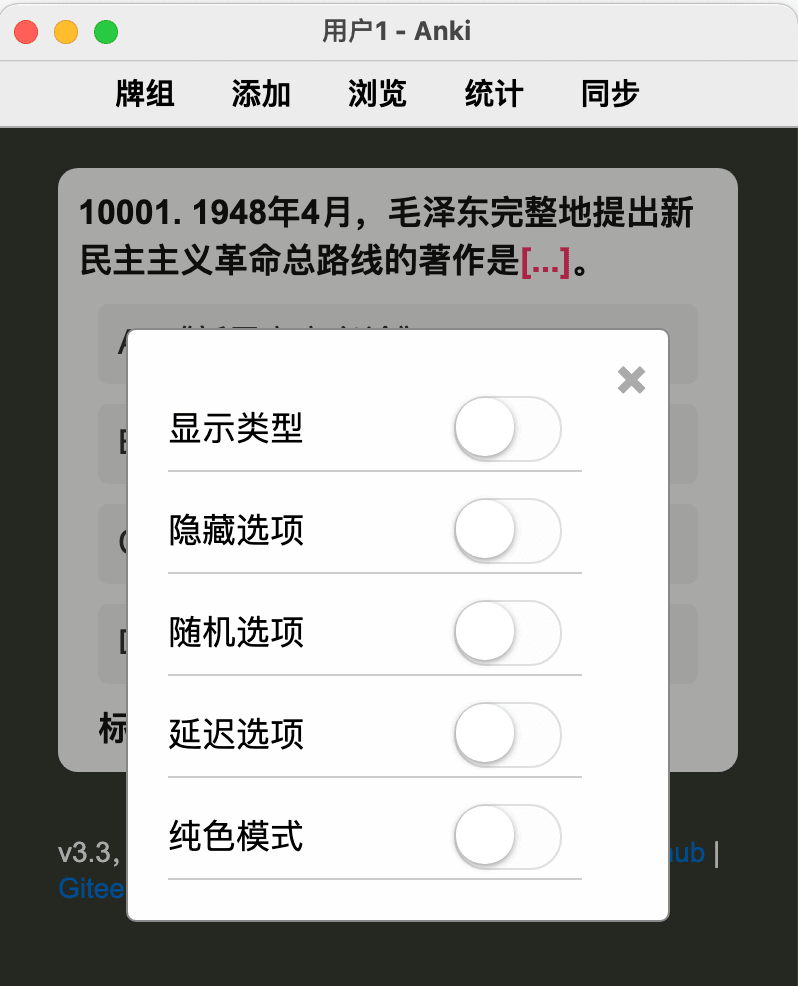
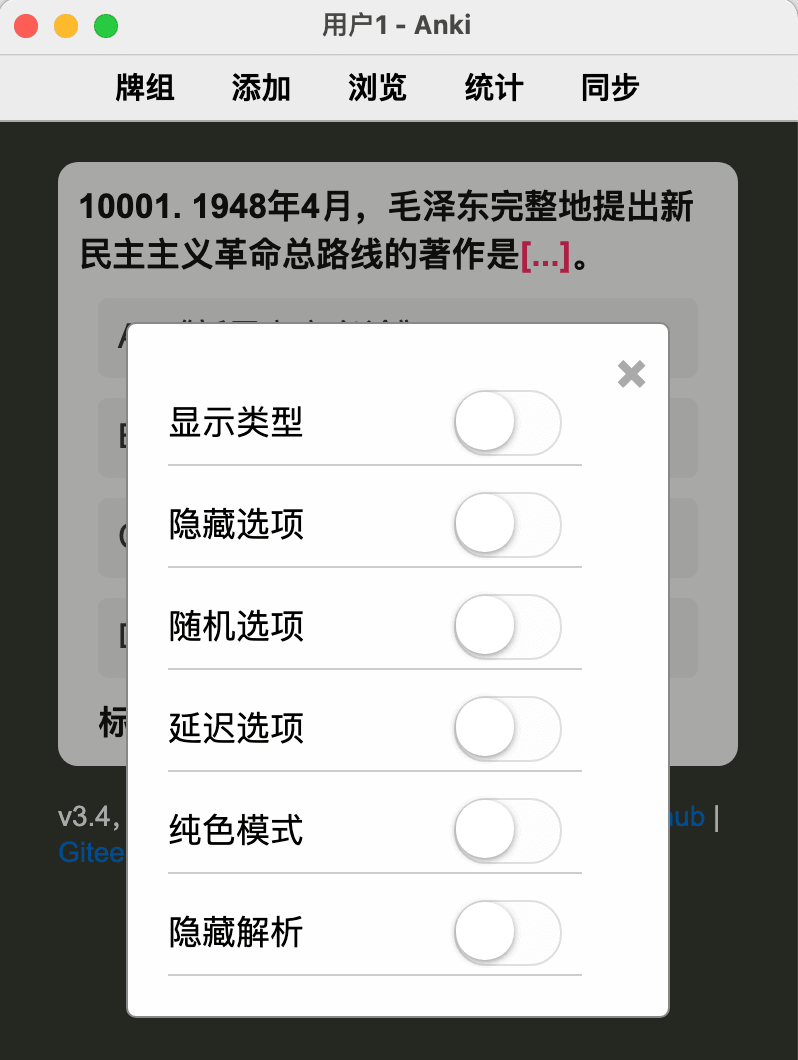
v3.4: 1. 修复当解析里仅含图片时不显示的问题 2. 自动计算并调整最合适的解析框高度 3. 增加【隐藏解析】的设置项，开启后，碰到有解析的卡片，先出现【显示解析】的按钮，点击按钮后才出现解析

diff --git a/front.html b/front.html
@@ -11,13 +11,13 @@
   </div>
 </div>
 
-<div class="footer">v3.3，作者：git9527，<a href="javascript:showSettings();">卡片设置</a>，开源地址：<a href="https://github.com/git9527/anki-awesome-select">Github</a> | <a href="https://gitee.com/git9527/anki-awesome-select">Gitee</a></div>
+<div class="footer">v3.4，作者：git9527，<a href="javascript:showSettings();">卡片设置</a>，开源地址：<a href="https://github.com/git9527/anki-awesome-select">Github</a> | <a href="https://gitee.com/git9527/anki-awesome-select">Gitee</a></div>
 
 <div id="answer" style="display:none">{{answer}}</div>
 <div id="options" style="display:none">{{options}}</div>
 <div id="tags" style="display:none">{{Tags}}</div>
 
-<div id="settingsModal" class="modal" style="display:none">
+<div id="settingsModal" class="modal">
 
   <div class="modal-content">
     <span class="close" onclick="hideSettings()">&times;</span>
@@ -52,6 +52,12 @@
           <input id="normal-option" class="mui-switch mui-switch-anim" type="checkbox" onchange="switchNormalOption(this)">
         </div>
       </div>
+      <div class="single-setting">
+        <div class="setting-label">隐藏解析</div>
+        <div class="setting-switch">
+          <input id="hide-notes" class="mui-switch mui-switch-anim" type="checkbox" onchange="switchHideNotes(this)">
+        </div>
+      </div>
     </div>
   </div>
 
@@ -64,6 +70,7 @@
   var randomOptions = '0'
   var delayOptions = '0'
   var normalOption = '0'
+  var hideNotes = '0'
 
   function showFrontOptions(hideOption, randomOption, delayOption) {
     var keySeq = []
@@ -194,7 +201,7 @@
     document.getElementById("settingsModal").style.display = 'none'
   }
 
-  function renameIosSendMessage(){
+  function renameIOsSendMessage(){
     if (window['sendMessage']) {
       window['sendMessage2'] = window['sendMessage']
       window['sendMessage'] = null
@@ -208,6 +215,7 @@
       randomOptions = Persistence.getItem('ANKI-SETTINGS-RANDOM-OPTIONS') || '0'
       delayOptions = Persistence.getItem('ANKI-SETTINGS-DELAY-OPTIONS') || '0'
       normalOption = Persistence.getItem('ANKI-SETTINGS-NORMAL-OPTIONS') || '0'
+      hideNotes = Persistence.getItem('ANKI-SETTINGS-HIDE-NOTES') || '0'
       Persistence.setItem('ANKI-SELECTED', '')
     }
     document.getElementById('hide-option').checked = hideOptions === '1'
@@ -215,6 +223,7 @@
     document.getElementById('show-type').checked = showQuestionType === '1'
     document.getElementById('delay-option').checked = delayOptions === '1'
     document.getElementById('normal-option').checked = normalOption === '1'
+    document.getElementById('hide-notes').checked = hideNotes === '1'
     showFrontOptions(hideOptions, randomOptions, delayOptions)
     dealQuestionType(showQuestionType)
   }
@@ -241,6 +250,10 @@
     }
   }
 
+  function switchHideNotes(input) {
+    extractKeyFromInputAndSave(input, 'ANKI-SETTINGS-HIDE-NOTES')
+  }
+
   function switchShowType(input) {
     extractKeyFromInputAndSave(input, 'ANKI-SETTINGS-SHOW-QUESTION-TYPE')
     dealQuestionType(showQuestionType)
@@ -264,6 +277,8 @@
       normalOption = key
     } else if (persistKey === 'ANKI-SETTINGS-SHOW-QUESTION-TYPE') {
       showQuestionType = key
+    } else if (persistKey === 'ANKI-SETTINGS-HIDE-NOTES') {
+      hideNotes = key
     }
     return key
   }
@@ -283,6 +298,6 @@
 
   applySettings()
   showTags()
-  renameIosSendMessage()
+  renameIOsSendMessage()
 
 </script>

diff --git a/back.html b/back.html
@@ -14,14 +14,17 @@
   <div class="tips">
     正确选项：<span id="correctAnswer"></span>&nbsp;&nbsp;&nbsp;&nbsp;你的选项：<span id="yourChoice"></span>
   </div>
-  <div id="notes-wrapper">
-    <hr>
-    <div class="notes-container">{{notes}}</div>
-  </div>
-
 </div>
 
-<div class="footer">v3.3，作者：git9527，开源地址：<a href="https://github.com/git9527/anki-awesome-select">Github</a> | <a href="https://gitee.com/git9527/anki-awesome-select">Gitee</a></div>
+<div id="notes-wrapper">
+  <hr>
+  <div class="notes-button-container" onclick="showNotes()">
+    <a href="javascript:showNotes();">显示解析</a>
+  </div>
+  <div class="notes-container">{{notes}}</div>
+</div>
+
+<div class="footer">v3.4，作者：git9527，开源地址：<a href="https://github.com/git9527/anki-awesome-select">Github</a> | <a href="https://gitee.com/git9527/anki-awesome-select">Gitee</a></div>
 
 <div id="answer" style="display:none">{{answer}}</div>
 <div id="options" style="display:none">{{options}}</div>
@@ -87,7 +90,7 @@
       })
     }
     if (Persistence.isAvailable()) {
-      var optionsOrder = Persistence.getItem('ANKI-OPTIONS-ORDER').trim().split(',')
+      var optionsOrder = (Persistence.getItem('ANKI-OPTIONS-ORDER') || '').trim().split(',')
       optionObjs = optionObjs.sort(function(a, b) {
         return optionsOrder.indexOf(a.key + '') - optionsOrder.indexOf(b.key + '')
       })
@@ -139,7 +142,7 @@
   function showAnswers() {
     document.getElementById("correctAnswer").innerHTML = numberToAlpha(document.getElementById("answer").innerHTML.trim().split('||'))
     if (Persistence.isAvailable()) {
-      var selectedNumbers = Persistence.getItem('ANKI-SELECTED').trim().split(',')
+      var selectedNumbers = (Persistence.getItem('ANKI-SELECTED') || '').trim().split(',')
       document.getElementById("yourChoice").innerHTML = numberToAlpha(selectedNumbers)
       Persistence.setItem('ANKI-SELECTED', '')
     }
@@ -147,14 +150,42 @@
   }
 
   function showNotes() {
-    if (document.getElementById('notes').innerText) {
+    if (document.getElementById('notes').innerHTML) {
       document.getElementById('notes-wrapper').style.display = 'block'
+      var totalHeight = window.innerHeight
+      var left = totalHeight - document.getElementsByClassName('wrap-container')[0].clientHeight - 140
+      if (left < 80) {
+        left = 80
+      }
+      var noteContainer = document.getElementsByClassName('notes-container')[0]
+      noteContainer.style.maxHeight = left + 'px'
+      noteContainer.style.display = 'block'
+      document.getElementsByClassName('notes-button-container')[0].style.display = 'none'
+    }
+  }
+
+  function showNoteButton() {
+    if (document.getElementById('notes').innerHTML) {
+      document.getElementsByClassName('notes-button-container')[0].style.display = 'block'
+      document.getElementById('notes-wrapper').style.display = 'block'
+    }
+  }
+
+  function prepareNotes() {
+    if (Persistence.isAvailable()) {
+      if (Persistence.getItem('ANKI-SETTINGS-HIDE-NOTES') !== '1') {
+        showNotes()
+      } else {
+        showNoteButton()
+      }
+    } else {
+      showNotes()
     }
   }
 
   showBackOptions()
   showTags()
   showAnswers()
-  showNotes()
+  prepareNotes()
 
 </script>

diff --git a/styles.css b/styles.css
@@ -143,7 +143,7 @@
 
 .footer {
     font-size: 14px;
-    margin: 30px 10px;
+    margin: 15px 10px 30px 10px;
     color: white;
     font-weight: normal;
 }
@@ -172,9 +172,11 @@ a {
 
 #notes-wrapper {
     display: none;
+    margin: 0 10px;
 }
 
-.notes-container {
+.notes-container, .notes-button-container {
+    display: none;
     background-color: white;
     font-size: 13px;
     max-height: 80px;
@@ -183,6 +185,11 @@ a {
     border-radius: 5px;
     padding: 10px;
     font-weight: normal;
+}
+
+.notes-button-container {
+    text-align: center;
+    margin-top: 10px;
 }
 
 .modal {

diff --git a/README.md b/README.md
@@ -1,6 +1,11 @@
 # Anki的选择题模板
 
 ## 更新日志:
+v3.4:
+1. 修复当解析里仅含图片时不显示的问题
+2. 自动计算并调整最合适的解析框高度
+3. 增加【隐藏解析】的设置项，开启后，碰到有解析的卡片，先出现【显示解析】的按钮，点击按钮后才出现解析 
+
 v3.3:
 1. 正确，错误，提示三种选项前新增小图标
 2. 默认模式调整为淡色模式，新增【纯色模式】，用于切换
@@ -63,6 +68,7 @@ v1.5:
 3. 随机选项：是否将选项的位置随机打乱
 4. 延迟选项：是否延迟500毫秒显示选项
 5. 纯色模式：用于默认的淡色和纯色切换
+6. 隐藏解析：开启后，碰到有解析的卡片，先出现【显示解析】的按钮，点击按钮后才出现解析
 
 ## 各平台截图
 |平台             | 单选 | 多选 |
